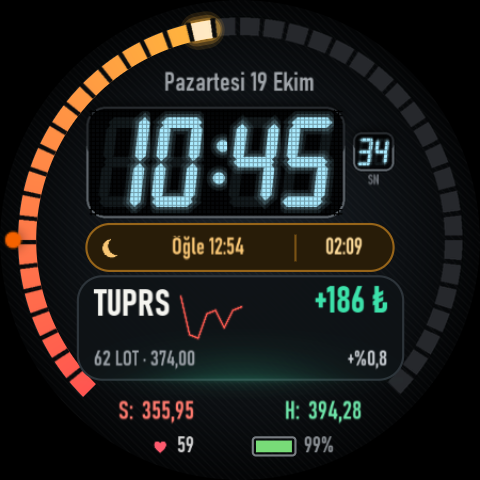
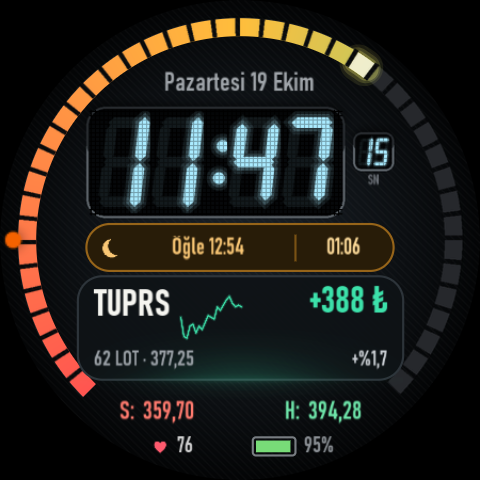
Saat: açık pozisyonda halka alışa sabit (tepe=alış, sağ=hedef, sol=simetrik zarar); iz süren stop halkayı dondurmuyor

diff --git a/WatchApp/app/src/main/java/com/biokpl/gridwatch/AlSatRepo.kt b/WatchApp/app/src/main/java/com/biokpl/gridwatch/AlSatRepo.kt
@@ -21,6 +21,7 @@ data class Snapshot(
     val qty: Int = 0,
     val stop: Double = 0.0,      // kurumdaki STOP emri (hard_stop)
     val target: Double = 0.0,
+    val entry: Double = 0.0,     // açık pozisyonun alış (ortalama) fiyatı
     val signal: String = "",
     val lots: Int = 0,
     val entryLow: Double = 0.0,
@@ -33,9 +34,19 @@ data class Snapshot(
 ) {
     enum class Mode { ACTIVE, PICK, WAIT, NO_DATA }
 
-    /** Fiyatın stop→hedef aralığındaki yeri (0..1). */
+    /**
+     * Halkadaki yer (0..1).
+     * Açık pozisyon: alışa sabit — tepe (0.5) = alış, sağ uç = hedef, sol uç = alıştan aynı mesafe aşağı.
+     *   (Stop'a göre ölçeklemek, iz süren stop yükseldikçe halkayı yerinde sayıyormuş gibi gösteriyordu.)
+     * Diğer durumlar: fiyatın stop→hedef aralığındaki yeri.
+     */
     val progress: Float
-        get() = if (target > stop && stop > 0) ((price - stop) / (target - stop)).coerceIn(0.0, 1.0).toFloat() else 0f
+        get() = when {
+            mode == Mode.ACTIVE && entry > 0 && target > entry ->
+                (0.5 + 0.5 * (price - entry) / (target - entry)).coerceIn(0.0, 1.0).toFloat()
+            target > stop && stop > 0 -> ((price - stop) / (target - stop)).coerceIn(0.0, 1.0).toFloat()
+            else -> 0f
+        }
 }
 
 private val TR = Locale("tr", "TR")
@@ -114,6 +125,7 @@ object AlSatRepo {
                 pnlPct = tr.optDouble("unrealized_pct", 0.0),
                 qty = tr.optInt("open_qty", tr.optInt("total_qty", 0)),
                 stop = stop, target = tr.optDouble("target1", 0.0),
+                entry = tr.optDouble("avg_cost", 0.0).takeIf { it > 0 } ?: tr.optDouble("entry_price", 0.0),
                 signal = if (sig == "—") "DEVAM" else sig,
                 totalPnl = total, trades = trades, winRate = wr, updated = updated,
             )
